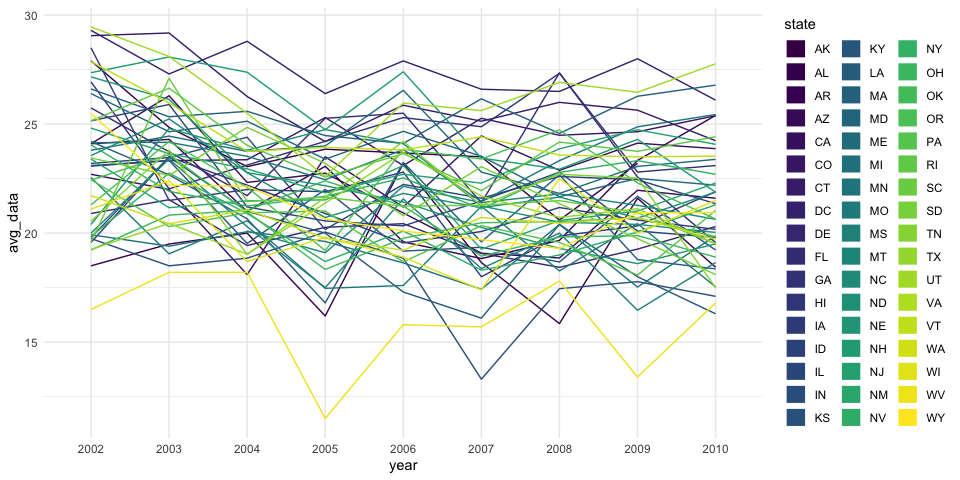
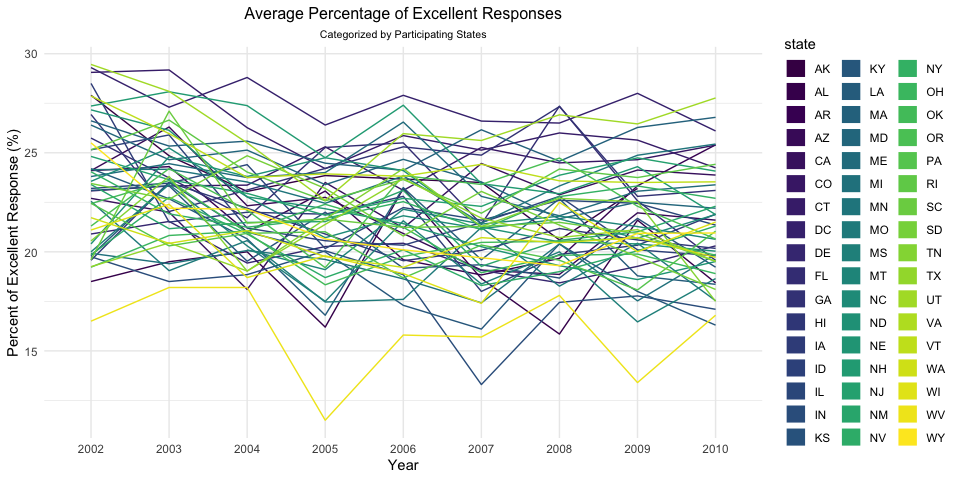
reviewed problem and fixed some misunderstanding

diff --git a/p8105_hw3_ksw2137.md b/p8105_hw3_ksw2137.md
@@ -63,7 +63,7 @@ out some things in the interest of efficiency.
 ``` r
 # modifies source df to further process for ggplot
 aisle_item_count <- insta_df %>%                   # assigned source df to a new one for wrangling
-  select(product_name, aisle_id, aisle) %>%        # select relevant columns
+  select(aisle_id, aisle, product_name) %>%        # select relevant columns
   drop_na() %>%                                    # drops any NA
   group_by(aisle, aisle_id) %>%                    # group by aisle & aisle_id
   summarize(aisle_order_count = n()) %>%           # creates a new column that counts unique orders in each aisle
@@ -119,7 +119,7 @@ variables of interest.
 ``` r
 # filter df to show top 3 of most ordered
 insta_df %>% 
-  select(product_name, aisle) %>%                 # pick relevant columns
+  select(aisle, product_name) %>%                 # pick relevant columns
   drop_na() %>%                                   # drop any NA
   group_by(aisle, product_name) %>%               # group by aisle and unique products within 
   summarize(product_count = n()) %>%              # make a new df that sums each unique product counts
@@ -185,17 +185,20 @@ insta_df %>%
 | Coffee Ice Cream | 13.77 | 14.32 | 15.38 | 15.32 | 15.22 | 12.26 | 13.83 |
 | Pink Lady Apples | 13.44 | 11.36 | 11.70 | 14.25 | 11.55 | 12.78 | 11.94 |
 
-The resulting table is a 2 x 7 table that gives the average hour these
-listed two items are ordered by day. Somewhat expected, the orders are
-typically done in the afternoon range.
+Days were hardcoded as `0 - 6` and since it is a US company, I made the
+assumption that these start from Sun - Sat. The resulting table is a 2 x
+7 table that gives the average hour these listed two items are ordered
+by day. Somewhat expected, the orders are typically done in the
+afternoon range. Ice cream orders are possibly (just a guess) due to the
+heat in the afternoon and thus acts as a “chiller” for consumers.
 
 # Problem 2
 
 For this problem, we will be loading the BRFSS (Behavioral Risk Factors
 Surveillance System) data included in the p8105 package. As the data is
 huge and there were places where it’s not tidy, we should tidy this up
-first by focusing on pertinent information (i.e. topic = “Overall Health
-and only”Excellent" - “Poor” responses).
+first by focusing on pertinent information (i.e. topic = “Overall
+Health” and only “Excellent” - “Poor” responses).
 
 ``` r
 # Loads BRFSS data from source
@@ -205,29 +208,51 @@ data("brfss_smart2010")
 # Assigns a new dataframe to the data-source to prevent frequent "reloads"
 ### Not sure if necessary.
 brfss_df <- brfss_smart2010 %>%  
-  janitor::clean_names() %>%             # turns column variables to lower_snake_case
-  rename(                                # rename these variables to better describe the data inside
+  janitor::clean_names() %>%                    # turns column variables to lower_snake_case
+  rename(                                       # rename these variables to better describe the data inside
     state = locationabbr,
     county = locationdesc
     ) %>% 
-  filter(topic == "Overall Health",      # filter df by topic of interest
-         response %in%                   # and by specified survey response
+  select(year, state, county, topic,            # select only relevant columns
+         question, response, data_value) %>%   
+  filter(topic == "Overall Health",             # filter df by topic of interest
+         response %in%                          # and by specified survey response
            c("Excellent", 
              "Very good", 
              "Good", 
              "Fair", 
              "Poor")
          ) %>% 
-  mutate(                                # mutates the response variables to factor and re-order as well
+  mutate(                                    # mutates the response variables to factor and re-order as well
     response = 
       factor(response,
              levels = c("Poor",
                         "Fair",
                         "Good",
                         "Very good",
-                        "Excellent"))
+                        "Excellent")),
+    data_value = data_value/100,                # converts it into the decimal form of "percent"
+    county = gsub(".*-", "",                    # removes the state indicator in counties
+                  county),
+    county = gsub(" County", "",                # removes the "county" since column title is county
+                  county)
     )
 ```
+
+The cleaned data contains the key variables that we’re interested to
+work with. They are:
+
+  - `year` : year in which the data were collected
+  - `state`:specific state where the responses come from (in 2-letter
+    format)
+  - `county`: counties within the states
+  - `topic`: topic in question; in this case “Overall Health” only
+  - `question`: questions being asked of respondents
+  - `response`: responses from participants (poor, fair, good, very
+    good, excellent)
+  - `data_value`: the percent value of responses from each county
+    (e.g. Jefferson County from AL has 18.9% “excellent”
+response)
 
 ### Problem 2a - Table of Number of State with \>6 Participating Counties in 2002 vs 2010
 
@@ -236,10 +261,12 @@ table that lists the number of counties that participated from each
 state in the year 2002 vs 2010.
 
 ``` r
+
 # base df
 brfss_count_loc <- brfss_df %>%                        # assigns a baseline, modified df for further cleaning
   group_by(year, state) %>%                            # group by year and state
   select(year, state, county) %>%                      # selects relevant columns
+  distinct(county) %>% 
   summarize(county_per_state = n())                    # counts up the number of counties in each state
 
 
@@ -253,23 +280,10 @@ count_loc_2002 <- brfss_count_loc %>%                  # assigns a new df for 20
               values_from = county_per_state
               ) %>% 
   ungroup() %>%                                        # ungroup so select can remove year column
-  select(-year)                                        # remove year column
+  rename("Year" = year)                                # capitalizes "year" column name
 
-# Prints segmented tables for 2002 States
-knitr::kable(list(t1 = head(count_loc_2002)[1:18],     # prints out the first half of the table
-                  t2 = head(count_loc_2002)[19:36])    # prints the second half
-             )
-```
 
-| AZ | CO | CT | DE | FL | GA | HI | ID | IL | IN | KS | LA | MA | MD | ME | MI | MN | MO |
-| -: | -: | -: | -: | -: | -: | -: | -: | -: | -: | -: | -: | -: | -: | -: | -: | -: | -: |
-| 10 | 20 | 35 | 15 | 35 | 15 | 20 | 10 | 15 | 10 | 15 | 15 | 40 | 30 | 10 | 20 | 20 | 10 |
 
-| NC | NE | NH | NJ | NV | NY | OH | OK | OR | PA | RI | SC | SD | TN | TX | UT | VT | WA |
-| -: | -: | -: | -: | -: | -: | -: | -: | -: | -: | -: | -: | -: | -: | -: | -: | -: | -: |
-| 35 | 15 | 25 | 40 | 10 | 25 | 20 | 15 | 15 | 50 | 20 | 15 | 10 | 10 | 10 | 25 | 15 | 20 |
-
-``` r
 # 2010 location counts per state
 count_loc_2010 <- brfss_count_loc %>%                  # assigns a new df for 2010 counts
   filter(year == "2010",                               # filter by year 2010 and counts > 6
@@ -279,32 +293,34 @@ count_loc_2010 <- brfss_count_loc %>%                  # assigns a new df for 20
               values_from = county_per_state
               ) %>% 
   ungroup() %>%                                        # ungroup so select can remove year column
-  select(-year)                                        # remove year column
+  rename("Year" = year)                                # capitalizes the "year" indicator
 
-# segmented tables for 2010
-knitr::kable(list(t1 = head(count_loc_2010)[1:18],     # prints the first segment of table
-                  t2 = head(count_loc_2010)[19:35],    # prints second segment
-                  t3 = head(count_loc_2010)[36:45])    # prints third segment
-             )
+
+knitr::kable(count_loc_2002)                           # Prints tables for 2002 States
 ```
 
-| AL | AR | AZ | CA | CO | CT | DE |  FL | GA | HI | IA | ID | IL | IN | KS | LA | MA | MD |
-| -: | -: | -: | -: | -: | -: | -: | --: | -: | -: | -: | -: | -: | -: | -: | -: | -: | -: |
-| 15 | 15 | 15 | 60 | 35 | 25 | 15 | 205 | 20 | 20 | 10 | 30 | 10 | 15 | 20 | 25 | 45 | 60 |
+| Year | CT | FL | MA | NC | NJ | PA |
+| ---: | -: | -: | -: | -: | -: | -: |
+| 2002 |  7 |  7 |  8 |  7 |  8 | 10 |
 
-| ME | MI | MN | MO | MS | MT | NC | ND | NE | NH | NJ | NM | NV | NY | OH | OK | OR |
-| -: | -: | -: | -: | -: | -: | -: | -: | -: | -: | -: | -: | -: | -: | -: | -: | -: |
-| 30 | 20 | 25 | 15 | 10 | 15 | 60 | 15 | 50 | 25 | 95 | 30 | 10 | 45 | 40 | 15 | 20 |
+``` r
+knitr::kable(count_loc_2010)                           # Prints tables for 2010
+```
 
-| PA | RI | SC | SD | TN | TX | UT | VT | WA | WY |
-| -: | -: | -: | -: | -: | -: | -: | -: | -: | -: |
-| 35 | 25 | 35 | 10 | 25 | 80 | 30 | 30 | 50 | 10 |
+| Year | CA | CO | FL | MA | MD | NC | NE | NJ | NY | OH | PA | SC | TX | WA |
+| ---: | -: | -: | -: | -: | -: | -: | -: | -: | -: | -: | -: | -: | -: | -: |
+| 2010 | 12 |  7 | 41 |  9 | 12 | 12 | 10 | 19 |  9 |  8 |  7 |  7 | 16 | 10 |
 
-The resulting table contains 36 states and 45 states in 2002 and 2010
-respectively. Interestingly, while working on the table, I noticed that
-there are 49 states in the 2002 data but 51 states in 2010. After
-investigating, this is because Montana (MT) started participating in
-2004 and Virginia (VA) in
+The resulting table contains 7 states and 15 states in 2002 and 2010
+respectively. Under each state is the number of counties within the
+state that responded. There are more than twice states that were part of
+the respondent in 2010 compared to 2002. We see that FL’s counties
+increased significantly from 7 to 41. We also do not see `CT` in the
+2010, likely because it had lower participating counties in 2010.
+Interestingly, while working on the table, I noticed that there are 49
+states in the 2002 data but 51 states in 2010. After investigating, this
+is because Montana (MT) started participating in 2004 and Virginia (VA)
+in
 2007.
 
 ### Problem 2b - Fluctuations in “Excellent” Responses over Time by State
@@ -315,28 +331,56 @@ are ~50 states, our graph will unfortunately look like a “spaghetti”.
 
 ``` r
 # filter out source data for plotting
-brfss_df %>% 
+spaghetti_plot <- brfss_df %>% 
   select(response, year, state, data_value) %>%                 # select relevant columns
   group_by(year, state) %>%                                     # group by specified variables
   filter(response == "Excellent") %>%                           # filter to contain excellent responses only
   drop_na(data_value) %>%                                       # drop any NA (for states that didn't participate)
   summarize(avg_data = mean(data_value)) %>%                    # create a new df to include mean # of responses
+  mutate(avg_data = avg_data*100) %>%                           # multiply data by 100 to resemble %age
   
 # spaghetti plot for excellent responses
-  ggplot(aes(x = year, y = avg_data, color = state)) +          # color category by state
+  ggplot(aes(x = year, y = avg_data,                            # color category by state
+             color = state)
+         ) +   
   geom_line() +
-  theme(legend.position = "right"                             # legend position adjustment
-        #panel.background = element_rect(fill = "coral4")
-        ) +
+  theme(legend.position = "right") +                            # legend position adjustment
   scale_x_discrete(limits = 2002:2010) +                        # adjust min, max of x-axis range
-  guides(color = guide_legend(override.aes = list(size = 6)))   # resize the color code for legends
+  guides(color = guide_legend(override.aes = list(size = 6))) + # resize the color code for legends
+  labs(title = "Average Percentage of Excellent Responses",     # assigns labels
+       subtitle = "Categorized by Participating States",
+       x = "Year",
+       y = "Percent of Excellent Response (%)"
+       ) +
+  theme(plot.title = element_text(hjust = 0.5, size = 12),       # adjusts title text size, alignment
+        plot.subtitle = element_text(hjust = 0.5, size = 8)      # adjusts subtitle size, alignment
+        )
+
+spaghetti_plot
 ```
 
 <img src="p8105_hw3_ksw2137_files/figure-gfm/spaghetti_plot-1.png" style="display: block; margin: auto;" />
 
 The resulting line graph above does indeed look like a “spaghetti”.
-However, based on the plot, we can definitely see a certain “outlier” in
-2005. Based on our color legends, it is likely Wyoming (WY)
+However, based on the plot, we can definitely see certain “outliers”.
+For example, there was a significant dip in the response in 2005. Based
+on our color legends, it is likely Wyoming (WY). Evaluating further,
+Wyoming seems to be consistently on the very low end of excellent
+response. This might indicate that the overall health of the population
+in Wyoming is less than excellent or the citizens might expect too much
+for an “excellent” health. We might also be able to `facet_wrap` the
+plot in order to see a better separation between states:
+
+``` r
+spaghetti_plot +
+  facet_wrap(~state) +
+  labs(title = "", subtitle = "", x = "", y = "") +
+  theme(legend.position = "none",
+        axis.title = element_blank(),
+        axis.text = element_blank())
+```
+
+<img src="p8105_hw3_ksw2137_files/figure-gfm/spaghetti_facet-1.png" style="display: block; margin: auto;" />
 
 ### Problem 2c - Making plot of responses in NY
 
